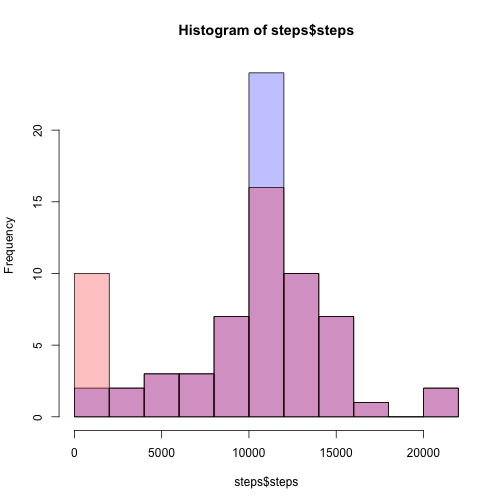
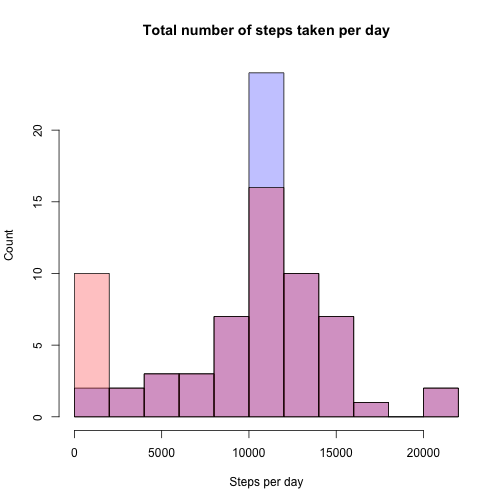
Set xlab, ylab and main

Changed region(s): [[0.2679, 0.0298, 0.7738, 0.0893], [0.4464, 0.9226, 0.5952, 0.9821], [0.0, 0.4167, 0.0298, 0.5357]]

diff --git a/PA1_template.html b/PA1_template.html
@@ -270,11 +270,11 @@ p2 &lt;- hist(steps$steps, breaks = 10, xlab = &quot;Steps per day&quot;, ylab =
 
 <p>Mean and median are higher. If we compare with the previous histogram, we notice that we are removing all the zero values given by the missing values, and replacing by the mean of the given interval.</p>
 
-<pre><code class="r">plot(p2, col = rgb(0, 0, 1, 1/4))
+<pre><code class="r">plot(p2, col = rgb(0, 0, 1, 1/4), xlab = &quot;Steps per day&quot;, ylab = &quot;Count&quot;, main = &quot;Total number of steps taken per day&quot;)
 plot(p1, col = rgb(1, 0, 0, 1/4), add = TRUE)
 </code></pre>
 
[2 lines of base64/hex data omitted]
 
 <p>The main effect is in the bins arround the zero values and the the bins arround the mean value.</p>
 

diff --git a/PA1_template.md b/PA1_template.md
@@ -121,7 +121,7 @@ Mean and median are higher. If we compare with the previous histogram, we notice
 
 
 ```r
-plot(p2, col = rgb(0, 0, 1, 1/4))
+plot(p2, col = rgb(0, 0, 1, 1/4), xlab = "Steps per day", ylab = "Count", main = "Total number of steps taken per day")
 plot(p1, col = rgb(1, 0, 0, 1/4), add = TRUE)
 ```
 
